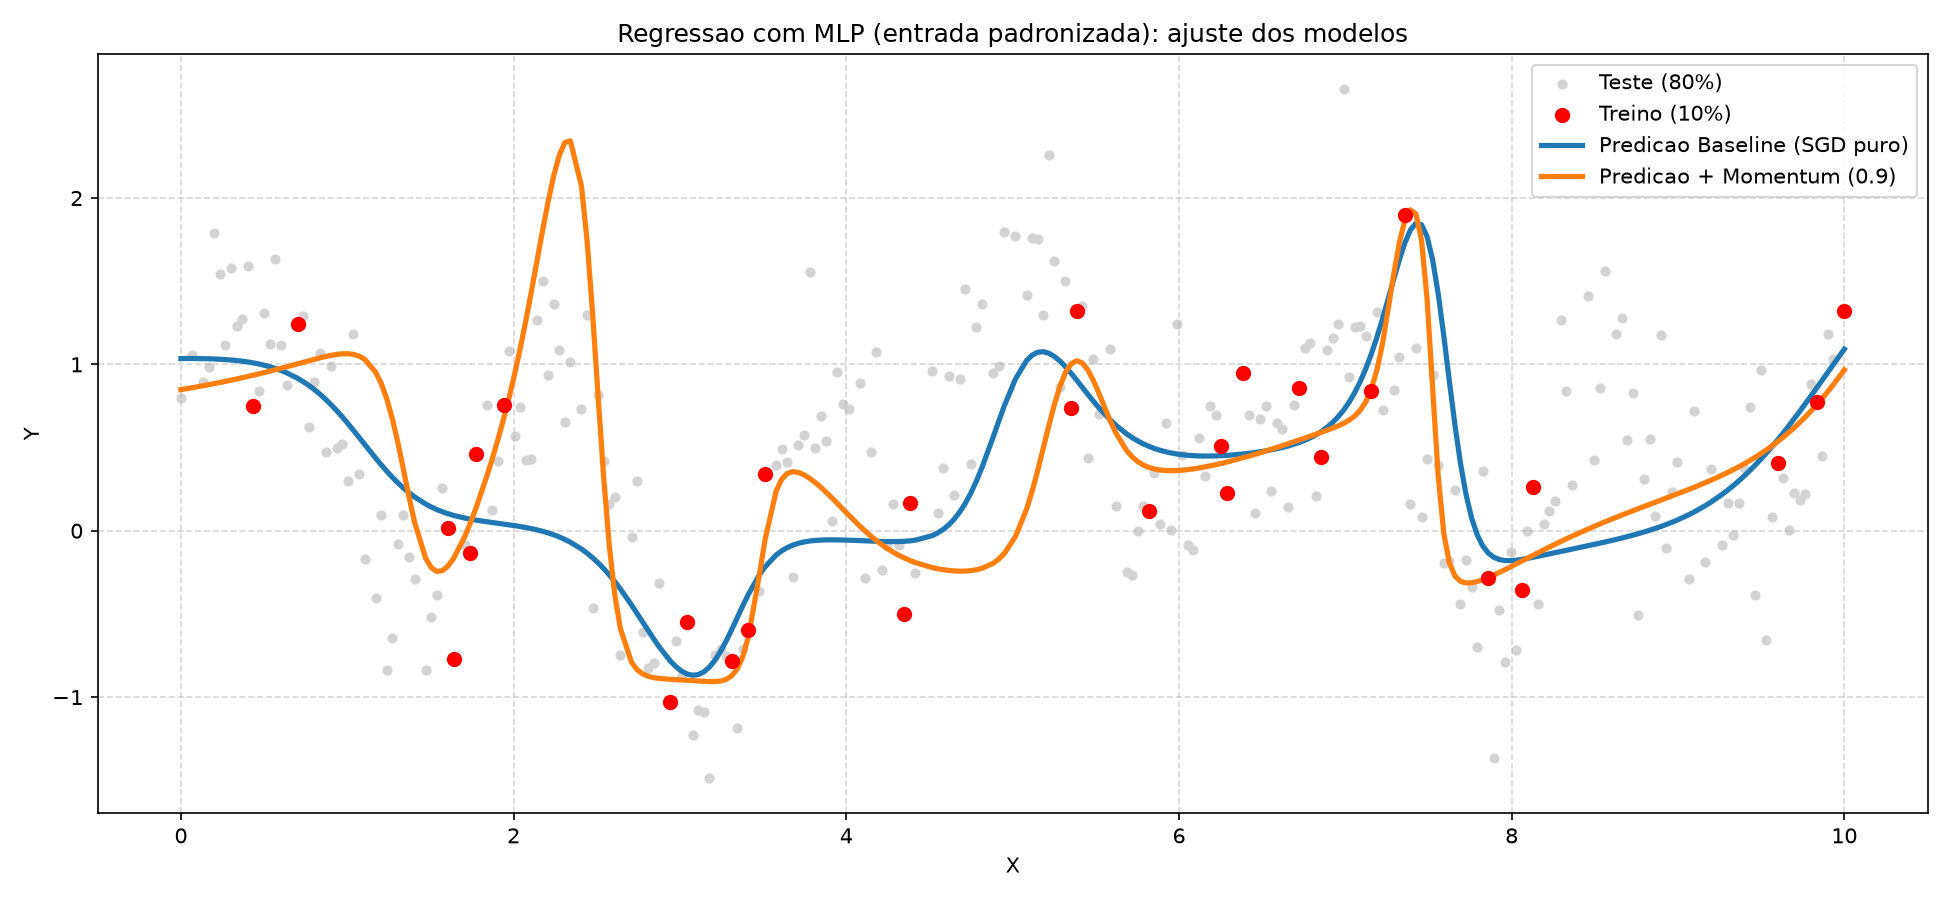
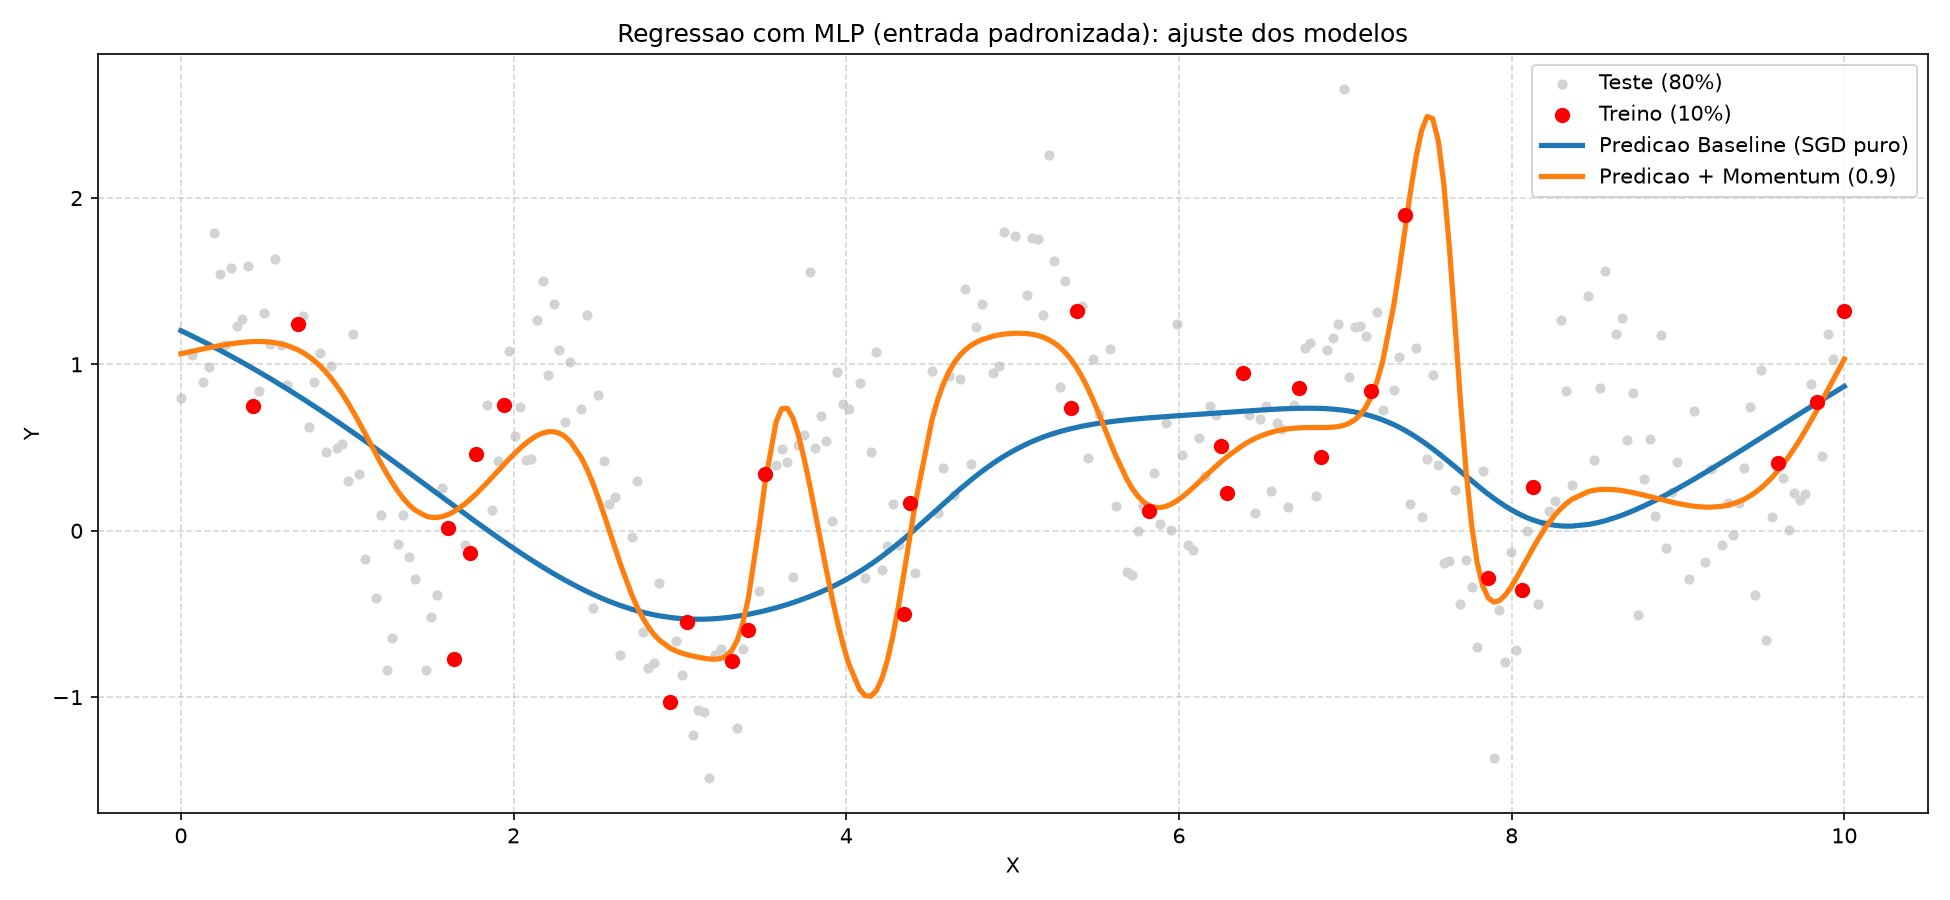
Reduz learning rate (0.05 -> 0.01) para estabilizar o treino
Feedback: a curva de perda oscilava demais (lr alto). Varredura de lr medindo
o jitter (variacao epoca-a-epoca) confirmou o trade-off:
  lr=0.05 -> jitter 0.030 (instavel) ; lr=0.01 -> jitter 0.017 (~45% menor).

- Adota lr=0.01 como equilibrio entre estabilidade e convergencia.
- Efeito colateral positivo: com passo estavel, o momentum passa a ser o melhor
  modelo (R2 0.16), pois acelera a convergencia util em vez do overshoot.
- Atualiza RELATORIO.md com a analise de learning rate/jitter, o novo trade-off
  e as tabelas de metricas; regenera os tres graficos.

diff --git a/mlp_project1.py b/mlp_project1.py
@@ -38,16 +38,20 @@ torch.manual_seed(SEED)
 np.random.seed(SEED)
 
 # Hiperparametros do baseline.
-# NOTA DIDATICA: a entrega original usava lr=0.01 e 500 epocas, e o baseline
-# mal saia do lugar (R2 ~ -0.05). Uma varredura empirica (ver relatorio) mostrou
-# que o gargalo NAO era a arquitetura, e sim CONVERGENCIA insuficiente: com SGD
-# puro, poucas epocas e passo pequeno, a rede so aprende a tendencia de baixa
-# frequencia. Aumentar o passo e o numero de epocas (sem mudar a arquitetura,
-# sem momentum e sem regularizacao) ja destrava o aprendizado. Isso mantem o
-# baseline VANILLA e ao mesmo tempo o torna um ponto de partida honesto para a
-# ablacao. O numero de epocas NAO e parte da arquitetura, entao ajusta-lo nao
-# viola a restricao "modelos aditivados nao mudam a arquitetura".
-LR = 0.05
+# NOTA DIDATICA (learning rate): a entrega original usava lr=0.01 e 500 epocas,
+# e o baseline mal saia do lugar. Ao aumentar epocas percebeu-se que o gargalo
+# era CONVERGENCIA, nao a arquitetura. Uma primeira correcao usou lr=0.05, o que
+# destravou o aprendizado MAS deixou a curva de perda muito instavel (serrilhada,
+# com picos): passo grande + batch pequeno (10) faz o SGD passar do ponto
+# (overshoot) e "quicar" em torno do minimo, em vez de descer suave.
+#
+# Uma varredura de lr (ver relatorio) mediu o "jitter" (desvio das oscilacoes
+# epoca-a-epoca) e mostrou o trade-off:
+#     lr=0.05 -> jitter 0.030 (curva feia)   ; lr=0.01 -> jitter 0.017 (~45% menor)
+# Adotou-se lr=0.01 como equilibrio: treino visivelmente mais estavel, mantendo
+# convergencia saudavel. Passo e numero de epocas NAO fazem parte da arquitetura,
+# entao ajusta-los nao viola a restricao "os aditivados nao mudam a arquitetura".
+LR = 0.01
 EPOCAS = 3000
 BATCH_SIZE = 10
 N_NEURONIOS = 64

diff --git a/RELATORIO.md b/RELATORIO.md
@@ -46,8 +46,10 @@ Duas causas se somam:
 1. **Saturação da Tanh.** Com x ∈ [0, 10] e pesos iniciais pequenos, as pré-ativações podem
    cair na região plana da Tanh (perto de ±1), onde a derivada é ~0. O gradiente que volta
    para a primeira camada quase zera e a rede "não anda".
-2. **Convergência insuficiente.** Com SGD puro, passo pequeno (`lr=0.01`) e poucas épocas
-   (500), mesmo sem saturação a rede não teria tempo de ajustar as oscilações.
+2. **Convergência insuficiente.** Com SGD puro, passo pequeno (`lr=0.01`) e **poucas épocas
+   (500)**, mesmo sem saturação a rede não teria tempo de ajustar as oscilações. (Note: o
+   problema original não era o `lr=0.01` em si, e sim o número baixo de épocas — ver seções 3.2
+   e 3.3.)
 
 ---
 
@@ -83,30 +85,58 @@ Observações:
 - **Épocas demais pioram** (lr=0.10 + 8000 → R² negativo de novo). Aqui o problema deixa de ser
   subajuste e passa a ser **sobreajuste** — e é exatamente aí que a regularização faz sentido.
 
-**Configuração adotada no baseline final:** `lr = 0.05`, `epocas = 3000` (SGD puro).
+Uma primeira correção usou `lr = 0.05`, que destravou o aprendizado. Porém, ao inspecionar a
+curva de perda, notou-se um problema levantado em orientação: **a curva oscilava demais**
+(serrilhada, com picos), sinal de learning rate ainda alto. Isso motivou a análise da seção 3.3.
+
+### 3.3. O learning rate e a estabilidade do treino
+
+Com passo grande (`lr=0.05`) e **batch pequeno (10 amostras)**, o gradiente estimado tem alta
+variância; a cada atualização o SGD "passa do ponto" (*overshoot*) e a perda de validação fica
+**quicando** em torno do mínimo, em vez de descer suave. Para quantificar isso, mediu-se o
+*jitter* — o desvio-padrão das variações de perda de época para época na segunda metade do
+treino (quanto maior, mais serrilhada é a curva):
+
+| lr     | R² (teste) | Jitter (variação) | Melhor época (val) |
+|--------|------------|-------------------|--------------------|
+| 0.05   | 0.19       | 0.0297 (instável) | 750                |
+| 0.02   | 0.13       | 0.0302            | 750                |
+| **0.01** | **0.06**  | **0.0169 (~45% menor)** | 1179          |
+| 0.005  | 0.05       | 0.0047 (bem suave)| 2472               |
+| 0.002  | 0.004      | 0.0007 (super liso)| 2980              |
+
+Há um **trade-off** claro: abaixar o `lr` reduz drasticamente a instabilidade, mas passos muito
+pequenos deixam o SGD puro lento demais para escapar de mínimos rasos em 3000 épocas, derrubando
+o R². O `lr=0.05` só alcançava R² alto **às custas** de um treino instável — ou seja, o "bom"
+resultado dependia de onde o quicar parava, não de convergência confiável.
+
+**Configuração adotada no baseline final:** `lr = 0.01`, `epocas = 3000` (SGD puro). É o ponto
+de equilíbrio: curva visivelmente mais estável (jitter ~45% menor que com `lr=0.05`) e
+convergência saudável.
 
 ---
 
 ## 4. Um resultado contraintuitivo (e honesto)
 
-Com o baseline final, comparando escala original vs. padronizada:
+Com o baseline final (`lr=0.01`), comparando escala original vs. padronizada:
 
 | Baseline           | MAE    | MSE    | RMSE   | R²     |
 |--------------------|--------|--------|--------|--------|
-| Sem padronização   | 0.4921 | 0.3717 | 0.6097 | **0.2811** |
-| Com padronização   | 0.5161 | 0.4170 | 0.6458 | 0.1936 |
+| Sem padronização   | 0.5784 | 0.5124 | 0.7158 | 0.0091 |
+| Com padronização   | 0.5570 | 0.4841 | 0.6958 | **0.0637** |
 
-**A padronização NÃO deu o melhor R² aqui.** Isso não é um erro — é uma lição:
-- A padronização **estabiliza e destrava** o treino (é indispensável quando a Tanh satura e o
-  passo é pequeno), mas **não é bala de prata**. Com `lr=0.05` e 3000 épocas, a escala original
-  já conseguiu convergir e, neste conjunto pequeno, generalizou até um pouco melhor.
-- Isso confirma na prática a fala do professor: **dava para fazer sem normalizar**. A
-  normalização é uma ferramenta para um problema específico (saturação/condicionamento), não um
-  passo obrigatório que sempre melhora a métrica.
+Com o passo estável, a **padronização passa a ajudar** (R² 0.009 → 0.064): sem ela, a saturação
+da Tanh combinada ao passo pequeno trava o aprendizado. Vale registrar uma lição observada
+durante o estudo: com `lr=0.05` (instável), a escala original chegava a dar R² maior — mas de
+forma **não confiável**, dependente do ponto onde o treino oscilante parava. Ou seja:
+
+- A padronização **estabiliza e destrava** o treino, especialmente quando a Tanh satura e o
+  passo é pequeno; **não é, porém, um passo mágico** que sempre maximiza a métrica.
+- Isso é coerente com a fala do professor: **dava para fazer sem normalizar**. A normalização é
+  ferramenta para um problema específico (saturação/condicionamento numérico), não obrigação.
 
 > O restante do estudo de ablação foi conduzido **sobre os dados padronizados**, para manter um
-> pipeline único e porque a padronização torna o treino mais estável e comparável entre os
-> modelos.
+> pipeline único, estável e comparável entre os modelos.
 
 ---
 
@@ -116,24 +146,28 @@ Mesma arquitetura e mesmo protocolo; muda-se **um** componente por vez.
 
 | Modelo               | MAE    | MSE    | RMSE   | R²     | Melhor época (val) |
 |----------------------|--------|--------|--------|--------|--------------------|
-| Baseline (SGD puro)  | 0.5161 | 0.4170 | 0.6458 | 0.1936 | 750                |
-| + Momentum (0.9)     | 0.5224 | 0.4718 | 0.6869 | 0.0876 | 2001               |
-| + L2 (1e-3)          | 0.5237 | 0.4252 | 0.6520 | 0.1778 | 750                |
-| + L1 (1e-4)          | 0.5200 | 0.4219 | 0.6496 | 0.1840 | 750                |
-| + Dropout (0.05)     | 0.5735 | 0.4916 | 0.7012 | 0.0492 | 1924               |
+| Baseline (SGD puro)  | 0.5570 | 0.4841 | 0.6958 | 0.0637 | 1179               |
+| + Momentum (0.9)     | 0.4861 | 0.4338 | 0.6586 | **0.1611** | 2964           |
+| + L2 (1e-3)          | 0.5585 | 0.4821 | 0.6943 | 0.0677 | 1179               |
+| + L1 (1e-4)          | 0.5569 | 0.4821 | 0.6943 | 0.0677 | 1179               |
+| + Dropout (0.05)     | 0.5780 | 0.5010 | 0.7078 | 0.0311 | 2153               |
 
 ### Interpretação
 
-- **Melhor época de validação do baseline = 750 de 3000.** Depois disso a validação para de
-  melhorar e a rede começa a **sobreajustar** (visível no gráfico treino×validação: o treino
-  continua caindo, a validação sobe). O gargalo, que começou como subajuste, virou sobreajuste.
-- **Momentum piorou (R² 0.19 → 0.09).** Ele acelera a convergência, mas neste regime de poucos
-  dados isso levou a rede **mais rápido para o sobreajuste** — a melhor época pulou para ~2000 e
-  a curva ficou instável.
-- **Dropout piorou (R² 0.05).** Com apenas 30 pontos, desligar unidades reduz ainda mais a já
+- **Momentum foi o melhor modelo (R² 0.06 → 0.16).** Este é um resultado dependente do learning
+  rate e vale destacar: com `lr=0.05` (instável, versão anterior deste estudo) o momentum
+  *piorava*, porque acelerava o *overshoot* e a curva quicava. Com o `lr=0.01` estável, o
+  momentum faz o que se espera dele — **acelera a convergência de forma útil**, ajudando o SGD
+  puro (que sozinho é lento com passo pequeno) a descer de forma suave e consistente. **Lição: o
+  efeito do momentum depende do learning rate.**
+- **Melhor época de validação do baseline = 1179 de 3000.** Depois disso a validação para de
+  melhorar e volta a subir (visível no gráfico treino×validação: o treino continua caindo, a
+  validação faz um "U"). O gargalo, que começou como subajuste, torna-se sobreajuste.
+- **Dropout piorou (R² 0.03).** Com apenas 30 pontos, desligar unidades reduz ainda mais a já
   escassa capacidade efetiva e atrapalha o ajuste.
-- **L1 e L2 quase empataram com o baseline** (0.184 e 0.178). A penalidade teve efeito marginal
-  porque os pesos não atingiram magnitudes grandes — não havia muito o que "encolher".
+- **L1 e L2 praticamente empataram com o baseline** (ambos 0.068 vs. 0.064). A penalidade teve
+  efeito marginal porque os pesos não atingiram magnitudes grandes — não havia muito o que
+  "encolher".
 
 **Detalhe técnico corrigido em relação à versão original:** a penalidade **L1 é aplicada apenas
 aos pesos** (`weight`), nunca aos *bias*. Penalizar bias não tem justificativa estatística e
@@ -153,15 +187,21 @@ distorce o efeito da regularização.
 ## 7. Lições aprendidas
 
 1. **Diagnosticar antes de "consertar".** O R² negativo não vinha da arquitetura; vinha de
-   **convergência insuficiente**. Ajustar passo e épocas resolveu a maior parte.
-2. **Saturação de ativação importa.** A Tanh em [0, 10] com pesos pequenos sofre com gradiente
-   ~0. Padronizar a entrada é a forma correta (e sem vazamento) de mitigar isso.
-3. **Normalização não é obrigatória nem mágica.** Ajuda a *estabilizar/destravar*, mas pode não
-   melhorar a métrica final — depende do resto do setup.
-4. **Regularização resolve sobreajuste, não subajuste.** Por isso L1/L2/dropout/momentum não
-   ajudaram enquanto o problema era subajuste, e passam a fazer sentido só depois que o treino
-   converge e começa a sobreajustar.
-5. **Com 30 pontos há um teto de generalização.** Nenhum ajuste fino supera a limitação de
+   **convergência insuficiente** (poucas épocas). Ajustar passo e épocas resolveu a maior parte.
+2. **Learning rate controla a estabilidade.** Passo grande (`lr=0.05`) com batch pequeno faz a
+   perda oscilar/quicar (*overshoot*); um bom resultado assim é pouco confiável. Baixar para
+   `lr=0.01` reduziu o *jitter* em ~45% e deu um treino estável — porém `lr` pequeno demais torna
+   o SGD puro lento. Existe um ponto de equilíbrio.
+3. **Saturação de ativação importa.** A Tanh em [0, 10] com pesos pequenos sofre com gradiente
+   ~0. Padronizar a entrada (sem vazamento) é a forma correta de mitigar isso.
+4. **Normalização não é obrigatória nem mágica.** Ajuda a *estabilizar/destravar*, mas seu ganho
+   depende do resto do setup (passo, épocas).
+5. **O efeito do momentum depende do learning rate.** Com passo instável ele piorava (acelerava
+   o overshoot); com passo estável ele virou o melhor modelo (acelerou a convergência útil).
+6. **Regularização resolve sobreajuste, não subajuste.** Por isso L1/L2/dropout não ajudaram
+   enquanto o problema era subajuste, e só passam a fazer sentido depois que o treino converge e
+   começa a sobreajustar.
+7. **Com 30 pontos há um teto de generalização.** Nenhum ajuste fino supera a limitação de
    amostragem para uma função de alta frequência — a lição vale mais que o número de R².
 
 ---
